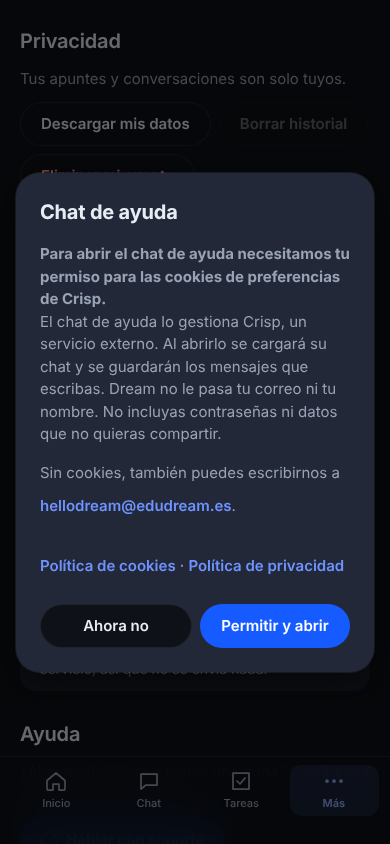
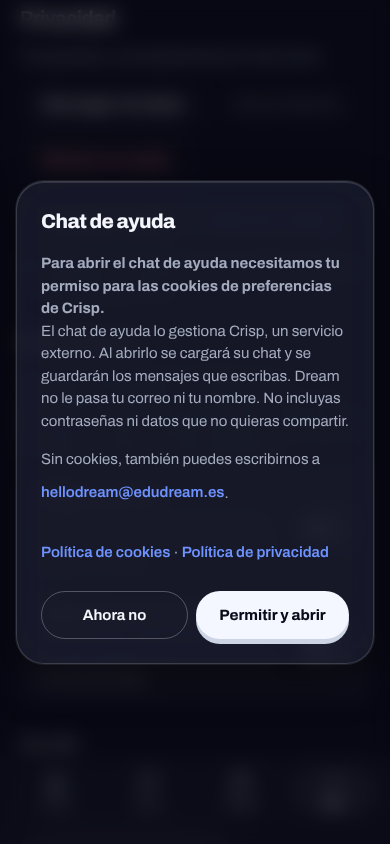
Pulido UX (dream-ux-polish): botón de borrar, barra inferior, cabecera, test y fuente única
- Botón destructivo en píldora, coral con texto oscuro (≈8:1); antes era un
  rectángulo rosa con texto blanco (2,3:1) o quedaba blanco bajo .primary.
  El foco inicial de «¿Borrar examen?» va a «Cancelar».
- Barra de pestañas del móvil más opaca y con degradado: el texto ya no se
  lee a través de ella.
- Cabecera flotante de la landing con degradado del fondo al bajar.
- Test corregido: la marca ✓/✕ sustituye al radio en vez de salir los dos.
- Etiquetas que usaban mono pasan a Archivo (una sola grotesca).
- Aviso con «Deshacer»: cuenta atrás visible que se pausa con el aviso.
- «Dream en cifras» alineado en escritorio; cookies ya no menciona el tema.

Informe en DISENO_EVIDENCIA.md y capturas en docs/diseno/pulido-ux/.

Claude-Session: https://claude.ai/code/session_01GydQN65afudeU7pwTr6tRn

diff --git a/app/globals.css b/app/globals.css
@@ -197,7 +197,9 @@
 
 @theme inline {
   --font-sans: var(--font-stack);
-  --font-mono: var(--font-code);
+  /* Una sola grotesca (rediseño Dream design): las etiquetas pequeñas que
+     usaban mono pasan a Archivo. El código sigue con --font-code. */
+  --font-mono: var(--font-stack);
   --color-bg: var(--bg);
   --color-surface: var(--surface);
   --color-text: var(--text);
@@ -4956,4 +4958,103 @@ textarea.field {
 .pop-grid,
 .pop.pop-grid {
   background-image: none;
+}
+
+/* ==========================================================================
+   Pulido UX (skill dream-ux-polish, 4-nov-2026)
+   ========================================================================== */
+
+/* Barra de pestañas (móvil): el cristal al 72 % dejaba leer el texto que
+   pasaba por detrás. Más opaca y con un degradado encima para que el
+   contenido se desvanezca al llegar a ella en vez de cortarse en seco. */
+@media (max-width: 639.98px) {
+  .tabbar {
+    background: rgba(18, 20, 34, 0.94);
+  }
+  .tabbar::before {
+    content: "";
+    position: absolute;
+    inset-inline: 0;
+    inset-block-end: 100%;
+    block-size: 24px;
+    background: linear-gradient(to bottom, transparent, var(--bg));
+    pointer-events: none;
+  }
+}
+
+/* Botón destructivo: era un rectángulo rosa claro con texto blanco (2,3:1)
+   junto a «Cancelar» en píldora, y con .primary el blanco del primario lo
+   tapaba. Ahora píldora como el resto, coral saturado y texto oscuro (7:1). */
+.danger-button {
+  display: inline-flex;
+  align-items: center;
+  justify-content: center;
+  gap: 8px;
+  min-height: 48px;
+  padding: 0 24px;
+  border-radius: var(--radius-pill);
+  font-size: var(--text-secondary-size);
+  font-weight: 750;
+  line-height: 1.2;
+  white-space: nowrap;
+  transition: transform 140ms var(--ease);
+}
+.danger-button:not(:disabled):not([aria-disabled="true"]),
+.primary.danger-button:not(:disabled):not([aria-disabled="true"]) {
+  background: var(--danger);
+  color: var(--dd-bg);
+  box-shadow: 0 5px 0 #b8565c;
+}
+.primary.danger-button::before {
+  display: none;
+}
+.danger-button:active:not(:disabled):not([aria-disabled="true"]) {
+  transform: scale(0.97) translateY(3px);
+  box-shadow: 0 2px 0 #b8565c;
+}
+.danger-button:disabled,
+.danger-button[aria-disabled="true"] {
+  background: #2a2d3b;
+  color: #8c93a6;
+  box-shadow: 0 5px 0 #1c1e29;
+}
+@media (hover: hover) and (pointer: fine) {
+  .primary.danger-button:hover:not(:disabled):not([aria-disabled="true"]),
+  .danger-button:hover:not(:disabled):not([aria-disabled="true"]) {
+    background: #ff9ea2;
+  }
+}
+
+/* Test corregido: el radio y la marca ✓/✕ salían a la vez. La marca ocupa
+   el sitio del radio (que sigue ahí para lectores de pantalla). */
+.test-option:has(.option-index) input {
+  position: absolute;
+  opacity: 0;
+  pointer-events: none;
+}
+
+/* Aviso con «Deshacer»: cuenta atrás visible (solo transform). Se pausa con
+   el aviso (puntero encima, foco o pestaña oculta). */
+.toast {
+  position: relative;
+  overflow: hidden;
+}
+.toast-timer {
+  position: absolute;
+  inset-inline: 0;
+  inset-block-end: 0;
+  block-size: 3px;
+  background: var(--accent);
+  transform-origin: left center;
+  animation-name: toast-timer;
+  animation-timing-function: linear;
+  animation-fill-mode: forwards;
+}
+@keyframes toast-timer {
+  from {
+    transform: scaleX(1);
+  }
+  to {
+    transform: scaleX(0);
+  }
 }

diff --git a/content/legal/cookies.ts b/content/legal/cookies.ts
@@ -11,7 +11,7 @@ Una cookie es un archivo pequeño que una web guarda en tu navegador. Dream tamb
 
 ## Qué usa Dream
 
-- **Necesarias.** Sirven para iniciar sesión, mantener la web segura y recordar lo que eliges, como el tema oscuro. Funcionan siempre: sin ellas Dream no funciona. No hace falta tu permiso.
+- **Necesarias.** Sirven para iniciar sesión, mantener la web segura y recordar lo que eliges, como la lectura fácil. Funcionan siempre: sin ellas Dream no funciona. No hace falta tu permiso.
 - **Preferencias.** Solo para el **chat de ayuda (Crisp)**. Se usan si tú lo permites, y solo cuando abres el chat.
 - **Estadísticas.** Solo si activas «Datos de uso» en **Ajustes**. Hoy no están en marcha.
 - **Publicidad: ninguna.** Dream no usa cookies de publicidad, de perfiles ni de seguimiento entre webs, ni aunque aceptes todo.

diff --git a/components/exams/exam-history.tsx b/components/exams/exam-history.tsx
@@ -255,10 +255,10 @@ export function ExamActionsSheet({
             segundos para deshacerlo.
           </p>
           <div className="modal-actions">
-            <button type="button" className="secondary press" onClick={() => setConfirm(false)}>
+            <button type="button" className="secondary press" onClick={() => setConfirm(false)} autoFocus>
               Cancelar
             </button>
-            <button type="button" className="danger-button press" onClick={onDelete} autoFocus>
+            <button type="button" className="primary danger-button press" onClick={onDelete}>
               Sí, borrar
             </button>
           </div>

diff --git a/components/landing/landing-header.module.css b/components/landing/landing-header.module.css
@@ -15,6 +15,21 @@
 .header > * {
   pointer-events: auto;
 }
+/* Al bajar, un degradado del fondo detrás de las píldoras para que el texto
+   que pasa por debajo no se lea entre ellas (dream-ux-polish § cabeceras). */
+.header::before {
+  content: "";
+  position: absolute;
+  inset: 0 0 -20px;
+  z-index: -1;
+  background: linear-gradient(to bottom, var(--dd-bg) 55%, transparent);
+  opacity: 0;
+  transition: opacity 200ms var(--ease);
+  pointer-events: none;
+}
+.header[data-scrolled]::before {
+  opacity: 1;
+}
 .brand {
   display: inline-flex;
   align-items: center;

diff --git a/components/toast.tsx b/components/toast.tsx
@@ -79,6 +79,16 @@ export function Toast({
           {action.label}
         </button>
       )}
+      {duration ? (
+        <span
+          className="toast-timer"
+          aria-hidden="true"
+          style={{
+            animationDuration: `${duration}ms`,
+            animationPlayState: paused ? "paused" : "running",
+          }}
+        />
+      ) : null}
       {onClose && (
         <button
           className="icon-button press"

diff --git a/app/landing.module.css b/app/landing.module.css
@@ -355,6 +355,8 @@
 .stat {
   display: flex;
   flex-direction: column-reverse;
+  /* Cifra arriba y alineada aunque la etiqueta ocupe dos líneas. */
+  justify-content: flex-end;
   align-items: center;
   gap: 8px;
 }

diff --git a/DISENO_EVIDENCIA.md b/DISENO_EVIDENCIA.md
@@ -313,3 +313,24 @@ Checklist de la skill:
 - [x] Sin scroll lateral de 360 a 1280 px (tests/browser/landing.spec.ts).
 
 Capturas (oscuro, móvil 390 y escritorio 1440): `docs/diseno/dream-design/capturas/`.
+
+## Pulido UX (skill dream-ux-polish, 4-nov-2026)
+
+Revisión de toda la web con capturas en móvil (390) y escritorio (1440): landing con scroll, bienvenida, login, Inicio, chat, Tareas, Apuntes, Exámenes, detalle, ruta, lección, simulacro, test, Progreso, juegos, Historial, Ajustes, Más, modales, avisos, páginas legales, blog, 404, mantenimiento y subida por QR.
+
+| Gravedad | Pantalla / estado | Qué se veía | Arreglo |
+|---|---|---|---|
+| Alta | Modal «¿Borrar examen?» y el resto de confirmaciones destructivas | «Sí, borrar» rectángulo rosa claro con texto blanco (2,3:1) junto a «Cancelar» en píldora; con `.primary` el blanco del primario tapaba el rojo | `.danger-button` píldora, coral con texto oscuro (≈8:1), relieve y pulsado como el primario; el foco inicial va a «Cancelar» |
+| Media | Barra de pestañas del móvil con listas largas | El texto que pasaba por detrás se leía a través del cristal al 72 % | Barra al 94 % y degradado de 24 px encima |
+| Media | Cabecera flotante de la landing al bajar | El texto se leía entre las píldoras (logo, «Empezar», menú) | Degradado del fondo detrás de la cabecera al bajar (solo opacidad) |
+| Media | Test corregido | Radio gris y ✓ verde a la vez en la misma respuesta | La marca ocupa el sitio del radio (que sigue para lectores de pantalla) |
+| Media | Ruta, lección, simulacro, tarjetas y juegos | Etiquetas en letra mono («A CONTINUACIÓN · TEST», «EDAD MEDIA»), contra «una sola grotesca» | `--font-mono` apunta a Archivo; el código sigue en `--font-code` |
+| Media | Aviso «Examen borrado · Deshacer» | Sin cuenta atrás visible | Barra lima que se encoge (transform) y se pausa con el aviso |
+| Baja | «Dream en cifras» en escritorio | El «3» quedaba más alto porque su etiqueta ocupa dos líneas | Cifras alineadas arriba |
+| Baja | Política de cookies | Decía «como el tema oscuro» (ya no hay selector de tema) | «como la lectura fácil» |
+
+Lo que ya estaba bien y se toma de referencia: «Cancelar» en píldora, estados vacíos con acción («Crear examen»), errores con «Reintentar», 404 y mantenimiento con salida clara.
+
+Patrones a vigilar en lo nuevo: cualquier barra fija necesita fondo propio o degradado; botones juntos con el mismo componente y alto; nada de etiquetas en mono; avisos con tiempo, con cuenta atrás.
+
+Capturas: `docs/diseno/pulido-ux/`.
